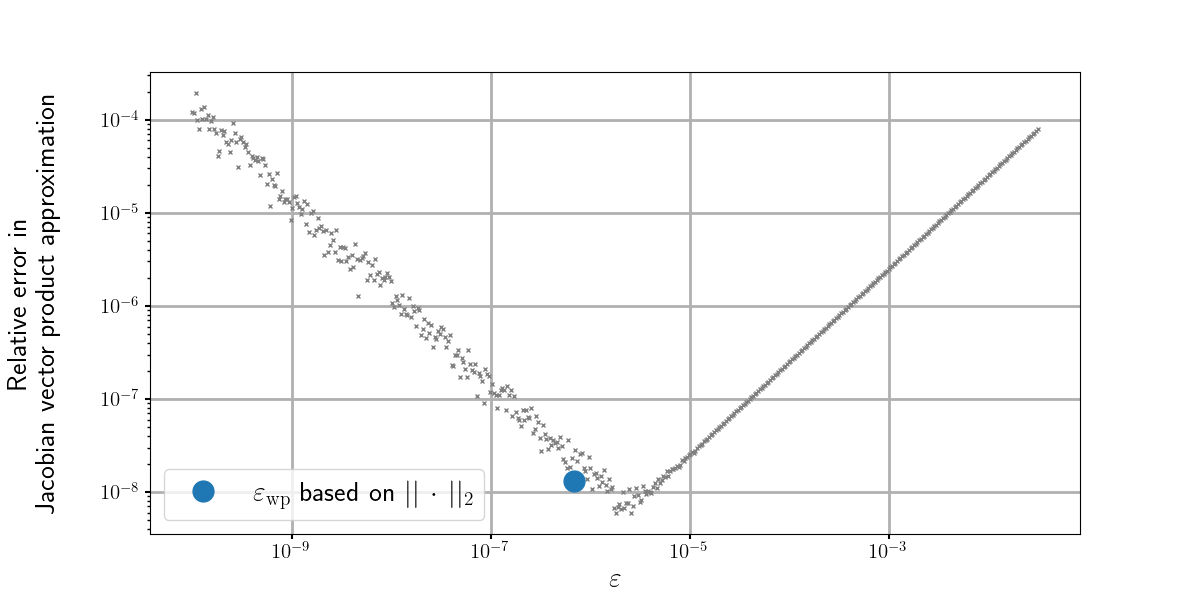
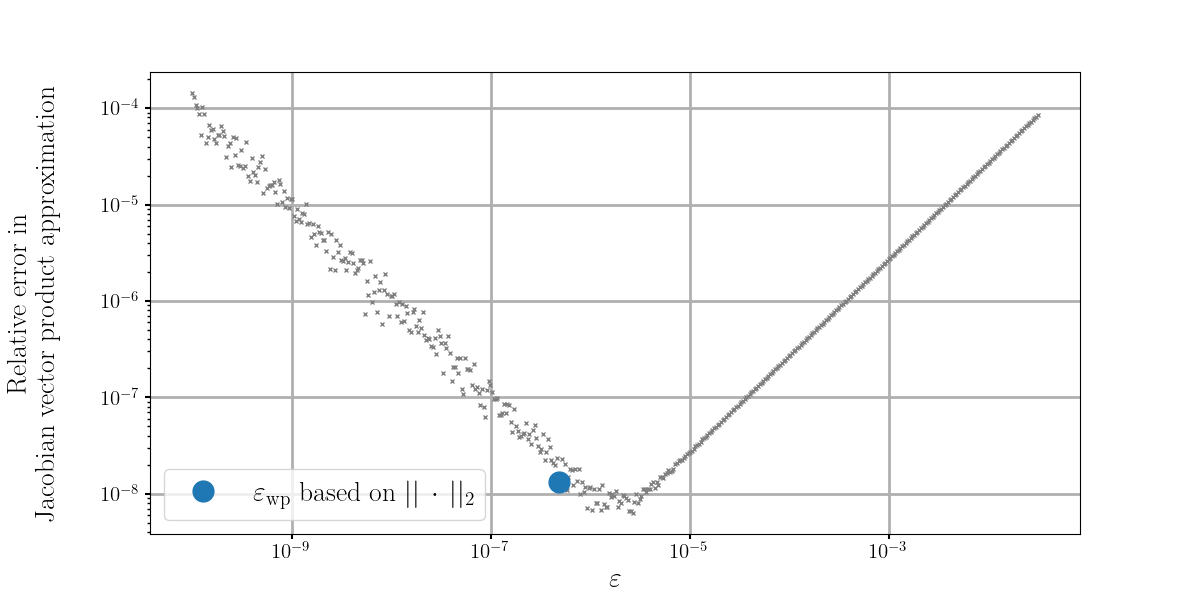
Using rng seed for reproductivity

diff --git a/figures/figures_matplotlib.py b/figures/figures_matplotlib.py
@@ -183,6 +183,8 @@ def fig_ab():
 def fig_preconditioning():
     from scipy.sparse.linalg import gmres as gmres_scipy
 
+    rng = np.random.RandomState(161616)
+
     class GMRESCounter:
         def __init__(self, res0=1):
             self.niter = 0
@@ -201,7 +203,7 @@ def fig_preconditioning():
 
     n = 200
     angle = 2 * np.arange(n) * np.pi / (n - 1)
-    a = np.diagflat(2 * np.sin(angle) - 1 + 1j * np.cos(angle)) + np.random.normal(size=(n, n)) / (2 * np.sqrt(n))
+    a = np.diagflat(2 * np.sin(angle) - 1 + 1j * np.cos(angle)) + rng.normal(size=(n, n)) / (2 * np.sqrt(n))
 
     val = scipy.linalg.eigvals(a)
     cond_a = np.linalg.cond(a)
@@ -231,6 +233,8 @@ def fig_preconditioning():
 
 
 def fig_eps():
+    rng = np.random.RandomState(12)
+
     class EpsWP2:
 
         def __str__(self):
@@ -280,11 +284,11 @@ def fig_eps():
 
         @staticmethod
         def x(_n):
-            return np.random.random(_n) + 10
+            return rng.random(_n) + 10
 
         @staticmethod
         def v(_n):
-            return 1e-1 * (2 * np.random.random(_n) - 1)
+            return 1e-1 * (2 * rng.random(_n) - 1)
 
     class Euler:
         gamma = 1.4
@@ -340,7 +344,7 @@ def fig_eps():
 
         @staticmethod
         def v(_n):
-            _v = np.random.random((_n, 3))
+            _v = rng.random((_n, 3))
             _v[:, 0] *= 1e-3
             _v[:, 1] *= 1e-2
             _v[:, 2] *= 1e+2
@@ -695,7 +699,7 @@ def covo_rk2():
             data_x.append(cfl)
             data_y.append(error)
 
-        ax.loglog(data_x, data_y, 'x-', lw=2, ms=8, label="N = {0}".format(mesh))
+        ax.loglog(data_x, data_y, 'x-', lw=2, ms=8, label="$N = {0}$".format(mesh))
 
     ax.grid(True)
     ax.set_xlabel(r'$\mathcal{N}_\textrm{CFL}$')
